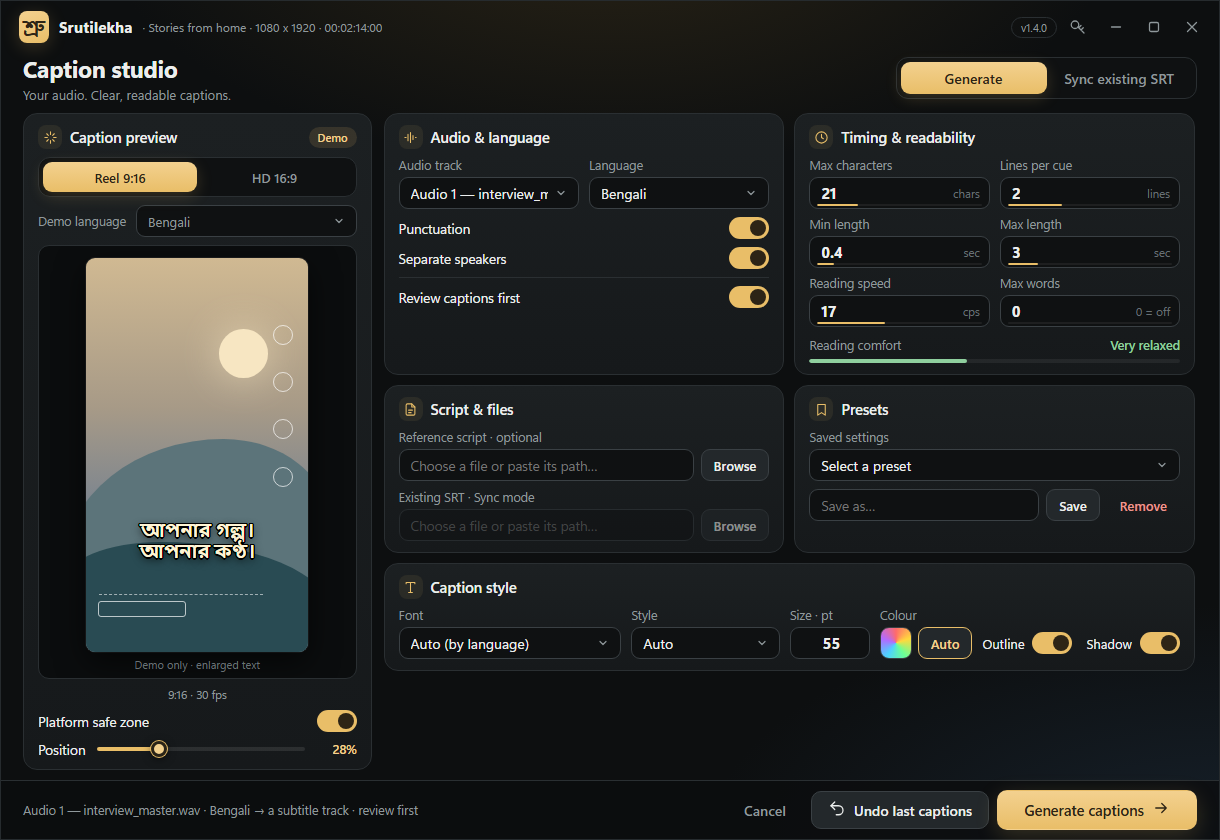
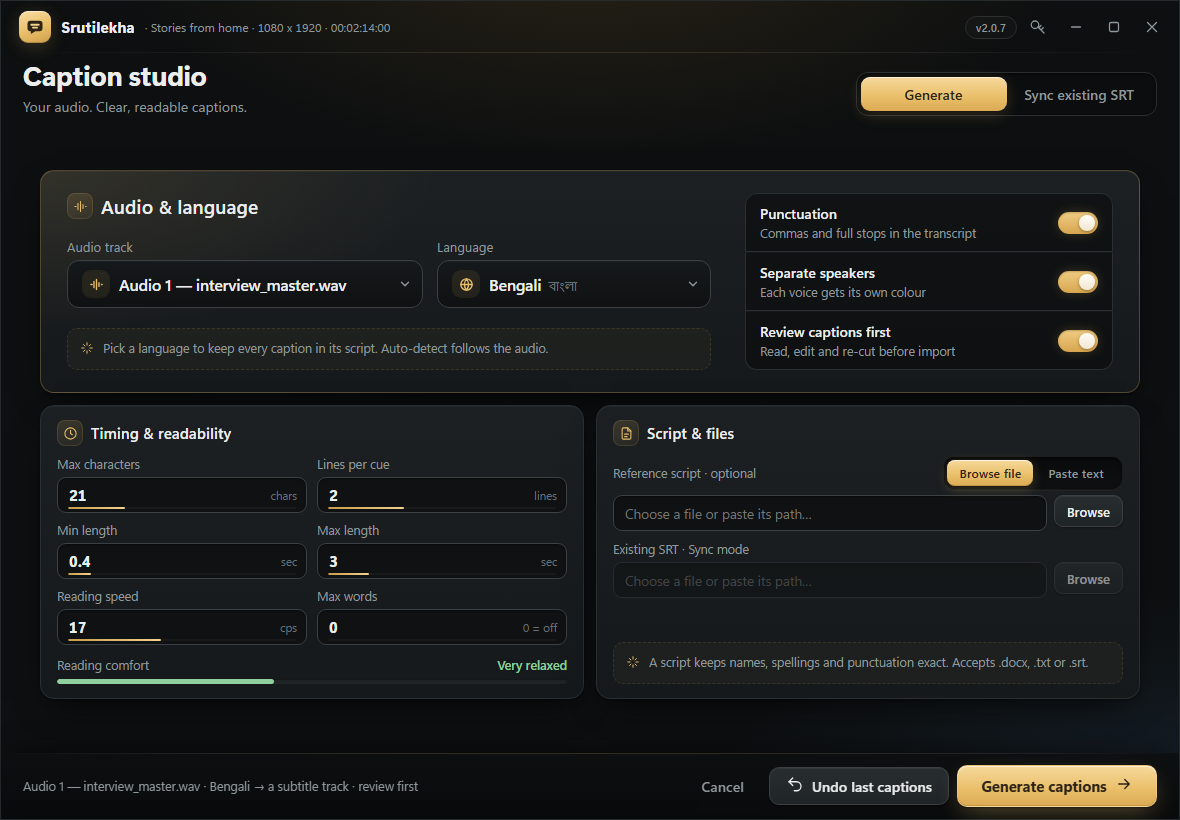
Tighten the Audio & language panel in the caption studio
- Stack the heading, both dropdowns and a one-line language note on the
  left so they match the height of the three switches; the ~80px empty
  band above the dropdowns is gone.
- Widen the track column so the full track name fits, and show it in the
  dropdown's tooltip when it is still cut short.
- Raise the contrast and size of the switch descriptions.
- docs: presets are no longer in the Studio form; describe the new panel
  layout; replace the v1.4.0 main-window screenshot with the current UI.

Checked in a browser mock at 1180x820 and 1040x720: no scrolling, no
truncated labels. 128 tests pass.

diff --git a/ui/studio.css b/ui/studio.css
@@ -25,17 +25,19 @@ h1 { margin: 0; font-size: 27px; font-weight: 700; letter-spacing: -.3px; }
 .sec-icon svg { width: 15px; height: 15px; }
 hr { border: 0; border-top: 1px solid var(--line); margin: 0; width: 100%; }
 
-.panel.hero { grid-column: 1 / -1; display: grid; grid-template-columns: 1.5fr 1fr; column-gap: 34px; row-gap: 12px; padding: 22px 26px; border-color: #e9be6845;
+.panel.hero { grid-column: 1 / -1; display: grid; grid-template-columns: 1.75fr 1fr; column-gap: 34px; row-gap: 12px; padding: 22px 26px; border-color: #e9be6845;
   background: radial-gradient(ellipse 60% 120% at 0% 0%, #e9be681c, transparent 60%), linear-gradient(180deg, var(--panel-2), var(--panel)); }
-.panel.hero > .panel-head { grid-column: 1 / -1; }
-.panel.hero > .panel-head h3 { font-size: 19px; }
-.panel.hero > .pair { grid-column: 1; grid-row: 2 / span 3; align-self: center; gap: 14px; }
-.panel.hero > .pair .fld > span { font-size: 13px; }
+/* Heading and the two dropdowns stack on the left; the three switches fill the
+   right column from the top, so the left side has no empty band. */
+.panel.hero > .hero-main { grid-column: 1; grid-row: 1 / span 3; display: flex; flex-direction: column; justify-content: space-between; gap: 12px; min-width: 0; }
+.panel.hero .panel-head h3 { font-size: 19px; }
+.panel.hero .pair { grid-template-columns: 1.3fr 1fr; gap: 14px; }
+.panel.hero .pair .fld > span { font-size: 13px; }
+.panel.hero .panel-note { margin: 0; }
 .panel.hero { row-gap: 0; }
-.panel.hero > .panel-head { margin-bottom: 16px; }
 .panel.hero > .row-toggle { grid-column: 2; padding: 10px 14px; background: #0b0d0eb3; border: 1px solid var(--line); border-top-color: #ffffff08; transition: background .18s; }
 .panel.hero > .row-toggle:hover { background: #111416cc; }
-.panel.hero > .pair + .row-toggle { border-top-color: var(--line); border-radius: 12px 12px 0 0; }
+.panel.hero > .hero-main + .row-toggle { border-top-color: var(--line); border-radius: 12px 12px 0 0; }
 .panel.hero > hr + .row-toggle { border-radius: 0 0 12px 12px; }
 .panel.hero > hr { display: none; }
 
@@ -95,7 +97,7 @@ input:disabled, button:disabled { opacity: .45; }
 .path { display: flex; gap: 7px; }
 .path input { flex: 1; font-size: 13.5px; }
 .row-toggle { display: flex; align-items: center; justify-content: space-between; gap: 10px; font-size: 14px; font-weight: 550; }
-.row-toggle small { display: block; margin-top: 2px; font-size: 12px; font-weight: 400; color: var(--dim); }
+.row-toggle small { display: block; margin-top: 2px; font-size: 12.5px; font-weight: 400; color: var(--muted); }
 .panel-note { margin: auto 0 0; display: flex; align-items: flex-start; gap: 9px; padding: 10px 12px; border-radius: 10px; background: #e9be6809; border: 1px dashed #e9be6826; color: var(--muted); font-size: 12.5px; line-height: 1.45; }
 .panel-note svg { width: 14px; height: 14px; margin-top: 2px; color: var(--gold); }
 

diff --git a/ui/studio.html b/ui/studio.html
@@ -35,10 +35,13 @@
   <!-- ── settings ────────────────────────────────────────── -->
   <div class="settings">
     <section class="panel hero">
-      <div class="panel-head"><span class="sec-icon" data-icon="wave"></span><h3>Audio &amp; language</h3></div>
-      <div class="pair">
-        <label class="fld" data-lock><span>Audio track</span><select data-key="chosen" id="trackSel"></select></label>
-        <label class="fld" title="Auto-detect follows the audio; a fixed language pins the transcript to its script"><span>Language</span><select data-key="lang" id="langSel"></select></label>
+      <div class="hero-main">
+        <div class="panel-head"><span class="sec-icon" data-icon="wave"></span><h3>Audio &amp; language</h3></div>
+        <div class="pair">
+          <label class="fld" data-lock><span>Audio track</span><select data-key="chosen" id="trackSel"></select></label>
+          <label class="fld" title="Auto-detect follows the audio; a fixed language pins the transcript to its script"><span>Language</span><select data-key="lang" id="langSel"></select></label>
+        </div>
+        <p class="panel-note"><span data-icon="sparkle"></span>Pick a language to keep every caption in its script. Auto-detect follows the audio.</p>
       </div>
       <div class="row-toggle" title="Adds commas and full stops to the transcript"><span>Punctuation<small>Commas and full stops in the transcript</small></span><input type="checkbox" class="switch" data-key="punct"></div>
       <div class="row-toggle" title="Colours each voice differently"><span>Separate speakers<small>Each voice gets its own colour</small></span><input type="checkbox" class="switch" data-key="diarize"></div>

diff --git a/ui/studio.js b/ui/studio.js
@@ -238,7 +238,11 @@ const Dropdown = {
     const btn = dd.querySelector(".dd-btn"), list = dd.querySelector(".dd-list"), search = dd.querySelector(".dd-search input");
     const tick = svg('<path d="m5 12 4 4L19 6"/>');
 
-    const sync = () => { dd.querySelector(".dd-label").innerHTML = this.label(sel, sel.options[sel.selectedIndex]) || "—"; };
+    const sync = () => {
+      const o = sel.options[sel.selectedIndex];
+      dd.querySelector(".dd-label").innerHTML = this.label(sel, o) || "—";
+      btn.title = o ? o.text : "";          // full name when the label is cut short
+    };
     const choose = (o) => { sel.value = o.value; sel.dispatchEvent(new Event("change")); close(); sync(); btn.focus(); };
     const build = () => {
       const q = (search ? search.value : "").trim().toLowerCase();

diff --git a/docs/studio-ui.md b/docs/studio-ui.md
@@ -24,7 +24,7 @@ pixel-identical.
 | Numeric range feedback and reading comfort | Timing fields and compact comfort strip |
 | Reference script: Browse a file or Paste the text | Script & files panel; pasted text is saved to `scripts/pasted_script.txt` in the data folder and passed to the worker as the script path |
 | Existing SRT path and Browse | Always-visible row; enabled in Sync mode |
-| Save/load/remove named presets | Presets panel; existing JSON format retained, caption style fields no longer saved |
+| Save/load/remove named presets | Not in the Studio form since v2.0.0; the classic Tkinter form keeps them. The `list/load/save/remove_preset` API and JSON format are retained, caption style fields no longer saved |
 | Cue preview at the timeline's frame | Review editor, after Generate |
 | Caption editing, local re-split, recipes, filters, merge/split and apply | Existing review editor retained |
 | Undo last captions, cancel | Footer |
@@ -37,8 +37,10 @@ transform and composite keys), so font, size, colour, outline, shadow and
 position never reached Resolve; set them in Resolve under Inspector > Track >
 Track Style. The real cues are previewed in the review editor after Generate.
 
-The setup form has no tabs or scrolling canvas. All four settings panels stay
-visible. Controls are checked at 1180 × 820, 1040 × 780
+The setup form has no tabs or scrolling canvas. All three settings panels stay
+visible. In Audio & language the heading, both dropdowns and a one-line
+language note stack on the left at the same height as the three switches on the
+right; the selected track's full name is in the dropdown's tooltip. Controls are checked at 1180 × 820, 1040 × 780
 and 1040 × 720 on the development Windows display. The initial window is 1180 × 820 and the minimum is
 1040 × 720, clamped to the screen. Unusually small screens or different DPI settings need separate
 validation. The review editor still scrolls its cue list, which can contain
